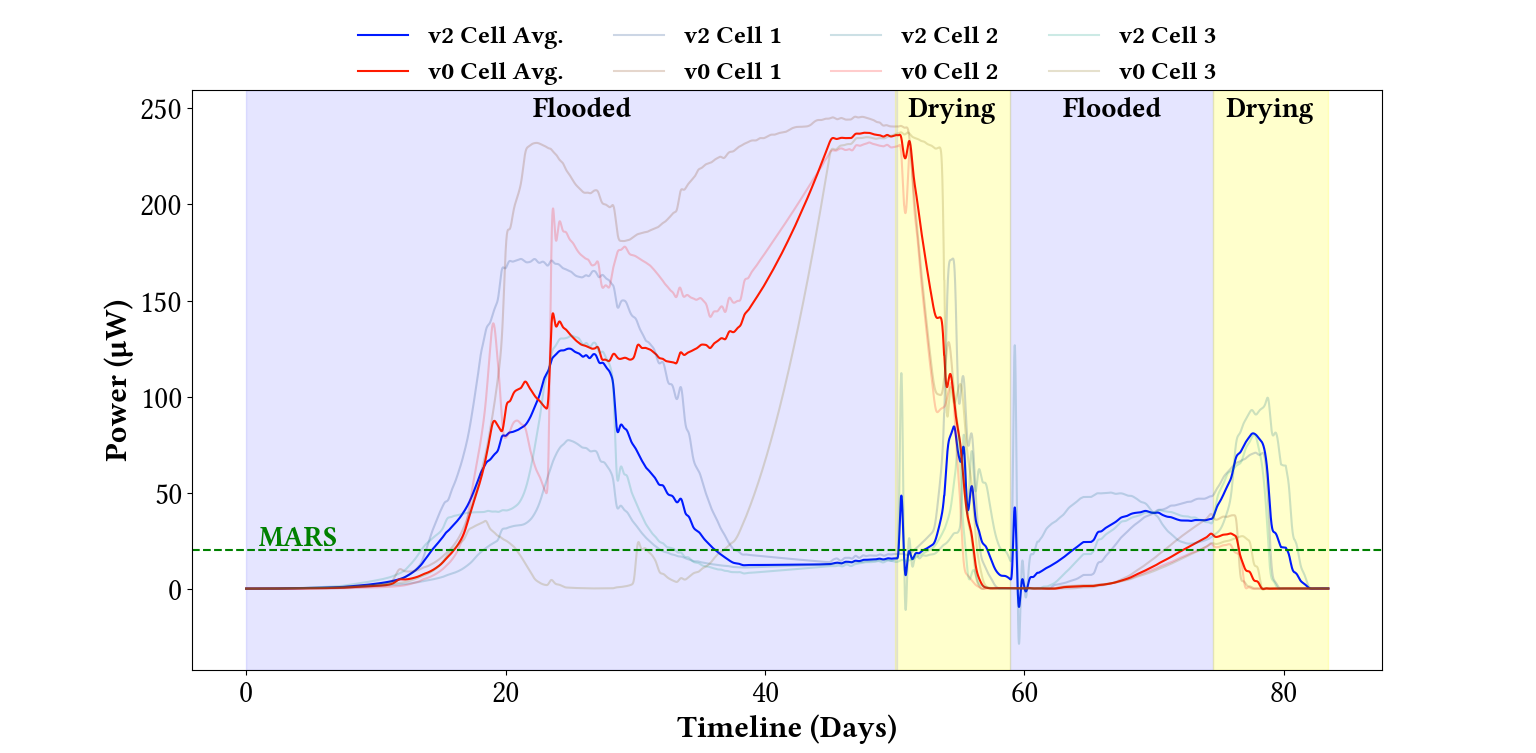
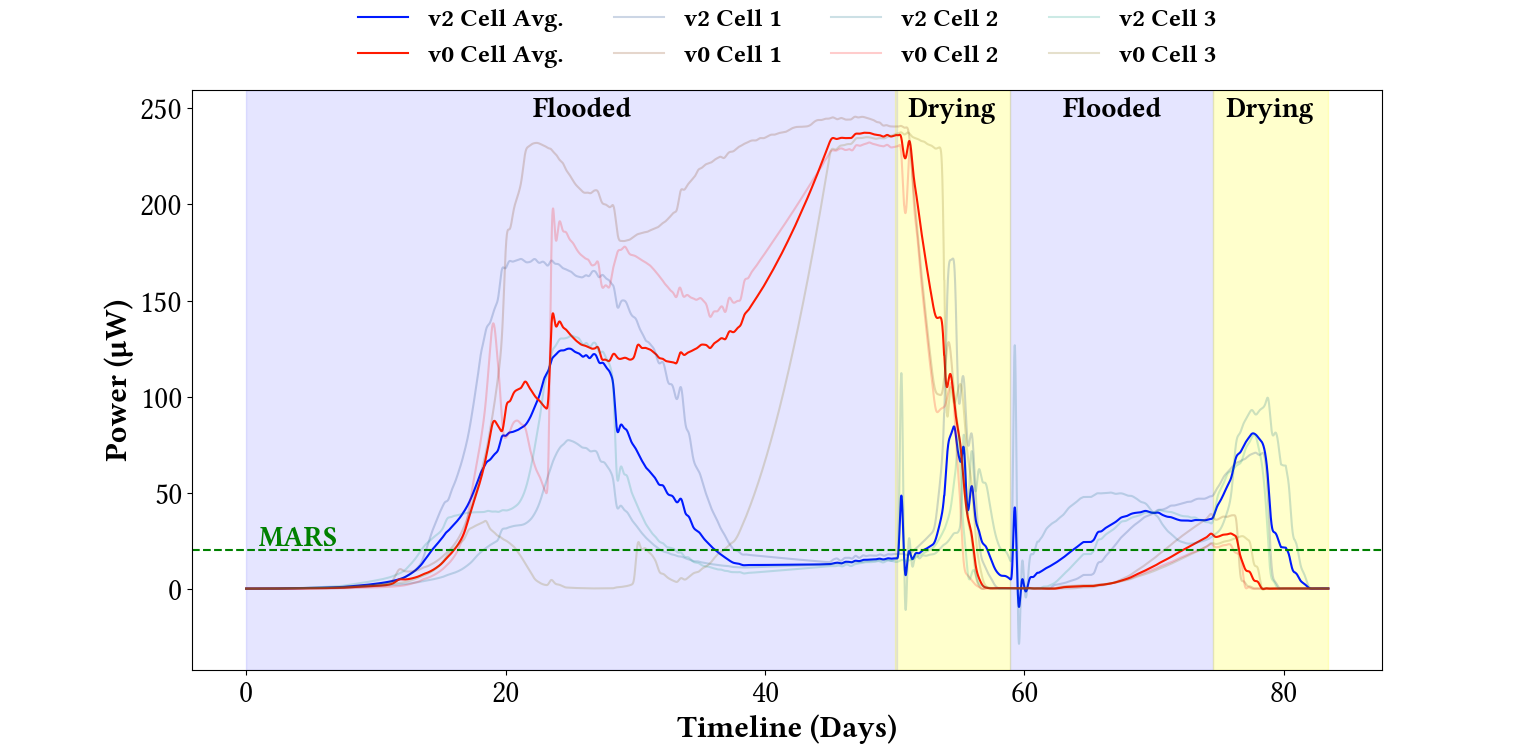
updated legend placing and images

diff --git a/prelim.py b/prelim.py
@@ -176,7 +176,7 @@ ax2.plot(days[1800:190979], vwc_filtered[1800:190979], alpha = 1, color= "red")
 # ax2.set_xlim(xmax=)
 ax2.set_ylim(ymin=0)
 ax2.set_ylim(ymax=80)
-ax1.legend(loc='upper center', bbox_to_anchor=(0.5, 1.15),
+ax1.legend(loc='upper center', bbox_to_anchor=(0.5, 1.25),
           fancybox=True, ncol=4, prop=my_font, frameon=False)
 
 
@@ -188,7 +188,7 @@ ax1.legend(loc='upper center', bbox_to_anchor=(0.5, 1.15),
 # ax1.legend(prop={'family':my_font, 'size':20})
 #set font type of x and y axis
 # plt.ylabel('Volumetric Water Content', fontproperties=my_font)
-ax2.set_ylabel('Volumetric Water Content (%)', fontproperties=my_font)
+ax2.set_ylabel('Vol. Water Content (%)', fontproperties=my_font)
 ax1.set_ylabel('Power (µW)', fontproperties=my_font)
 
 plt.xlabel('Timeline (Days)', fontproperties=my_font)

diff --git a/v3_vwc.py b/v3_vwc.py
@@ -178,7 +178,7 @@ for label in ax.get_yticklabels():
     label.set_fontproperties(my_font2)
 
 #set font type of legend
-ax.legend(loc='upper center', bbox_to_anchor=(0.5, 1.15),
+ax.legend(loc='upper center', bbox_to_anchor=(0.5, 1.18),
           fancybox=True, ncol=4, prop=my_font, frameon=False)
 # ax.plot(days[93660:], vwc_filter[93660:], alpha = 1, color= (0,0.1,1))
 plt.show()

diff --git a/buffer_3.py b/buffer_3.py
@@ -205,7 +205,7 @@ ax.set_position([box.x0, box.y0 + box.height * 0.1,
                  box.width, box.height * 0.9])
 
 # Put a legend below current axis
-ax.legend(loc='upper center', bbox_to_anchor=(0.5, 1.15),
+ax.legend(loc='upper center', bbox_to_anchor=(0.5, 1.18),
           fancybox=True, ncol=4, prop=my_font, frameon=False)
 
 plt.show()

diff --git a/buffer_2CLEAN.py b/buffer_2CLEAN.py
@@ -281,6 +281,6 @@ for label in ax.get_yticklabels():
     label.set_fontproperties(my_font2)
 
 #set font type of legend
-ax.legend(loc='upper center', bbox_to_anchor=(0.5, 1.15),
+ax.legend(loc='upper center', bbox_to_anchor=(0.5, 1.18),
           fancybox=True, ncol=4, prop=my_font, frameon=False)
 plt.show()
